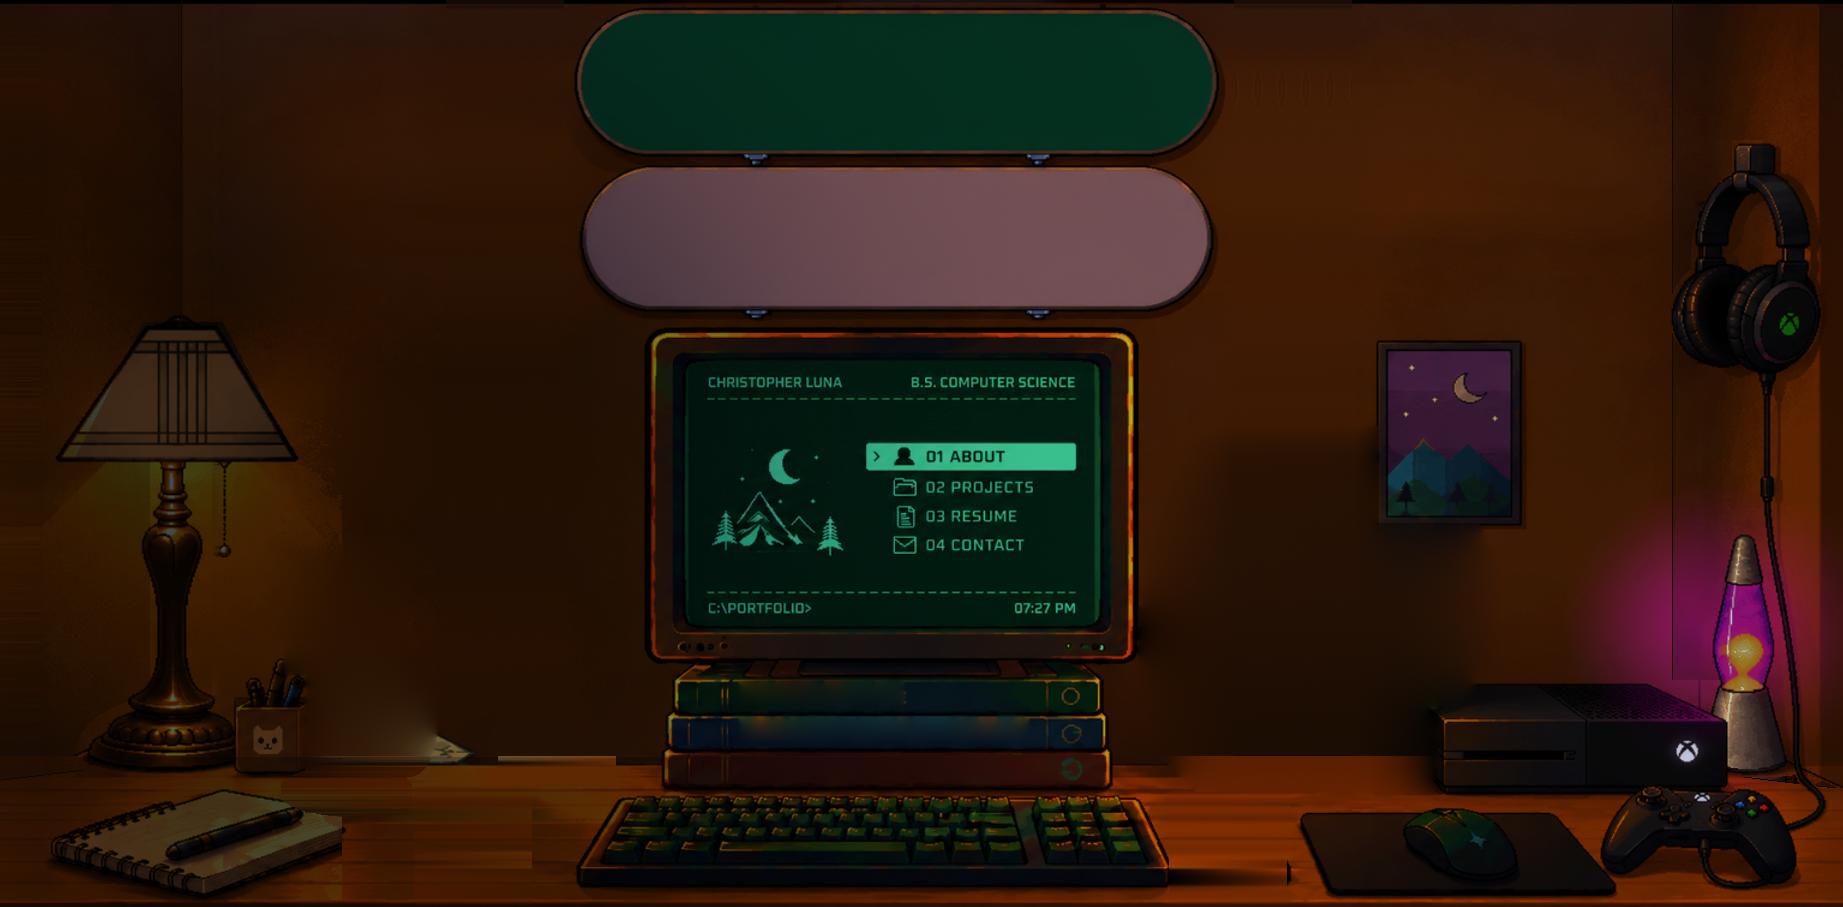
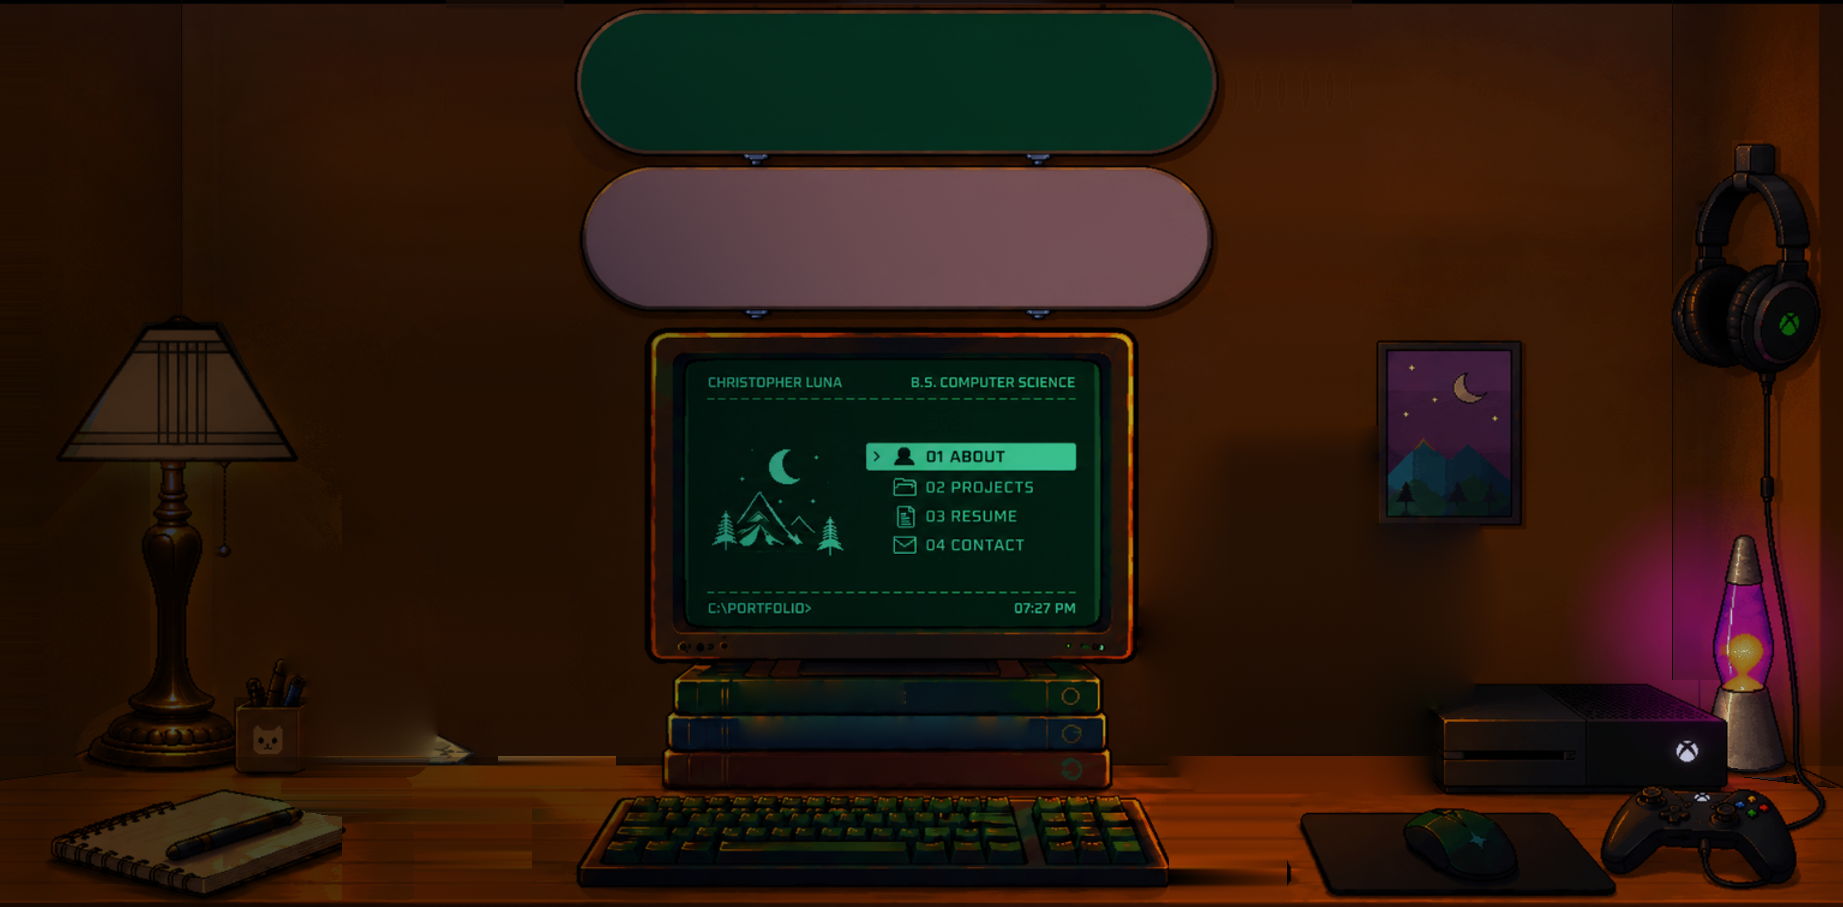
Lamp off takes its glow off the wall too
The switched-off room divided a smooth glow out of the lit one, but the mockup's painted pool under the shade isn't smooth, so it stayed on the wall. The wall's leftover light is now measured (block medians, against the plain wall left of the decks on the same rows) and brought down to it.

Changed region(s): [[0.0, 0.4939, 0.1856, 0.6792]]

diff --git a/scripts/mockup-room.js b/scripts/mockup-room.js
@@ -77,7 +77,53 @@ function lampOff(img) {
     for (let c = 0; c < 3; c++) out[o + c] = clamp(Math.round((img[o + c] * 0.8 * [0.95, 0.97, 1.08][c]) / (1 + G * tint[c])), 0, 255);
     if (inPoly(mx, my, SHADE)) { const l = 0.3 * img[o] + 0.59 * img[o + 1] + 0.11 * img[o + 2]; out[o] = l * 0.26; out[o + 1] = l * 0.17; out[o + 2] = l * 0.1; }
   }
+  unlightWall(out, SHADE);
   return out;
+}
+
+/**
+ * The glow the mockup paints on the wall round the shade isn't a smooth falloff, so dividing one out leaves
+ * its pool behind. What's left is measured instead: the wall's light in blocks (a median, so the lamp's stem
+ * and the pencil cup don't count), against the plain wall just left of the decks on the same rows, and the
+ * wall (and what stands in front of it) brought down to that, fading out before the decks and the desk.
+ */
+function unlightWall(out, SHADE) {
+  const B = 12, X1 = Math.round(380 * K), XF = Math.round(330 * K), Y1 = Math.round(DESK_Y * K);
+  const gw = Math.ceil(X1 / B), gh = Math.ceil(Y1 / B);
+  const median = (x0, y0, x1, y1) => {
+    const v = [[], [], []];
+    for (let y = y0; y < y1; y++) for (let x = x0; x < x1; x++) {
+      if (inPoly(x / K, y / K, SHADE)) continue;
+      for (let c = 0; c < 3; c++) v[c].push(out[(y * W + x) * 3 + c]);
+    }
+    return v.map((a) => (a.length ? a.sort((p, q) => p - q)[a.length >> 1] : 0));
+  };
+  // the plain wall per block row, just left of the decks
+  const ref = Array.from({ length: gh }, (_, j) => median(Math.round(362 * K), j * B, X1, Math.min(Y1, (j + 1) * B)));
+  for (let j = 1; j < gh - 1; j++) for (let c = 0; c < 3; c++) ref[j][c] = (ref[j - 1][c] + 2 * ref[j][c] + ref[j + 1][c]) / 4;
+  // each block's darkening (never brighter), smoothed so no block edge shows
+  let g = Array.from({ length: gh }, (_, j) => Array.from({ length: gw }, (_, i) => {
+    const m = median(i * B, j * B, Math.min(X1, (i + 1) * B), Math.min(Y1, (j + 1) * B));
+    return m.map((v, c) => (v ? Math.min(1, (ref[j][c] + 1) / (v + 1)) : 1));
+  }));
+  for (let pass = 0; pass < 4; pass++) {
+    g = g.map((row, j) => row.map((_, i) => [0, 1, 2].map((c) => {
+      let s = 0, n = 0;
+      for (let dj = -1; dj <= 1; dj++) for (let di = -1; di <= 1; di++) { const r = g[j + dj]?.[i + di]; if (r) { s += r[c]; n++; } }
+      return s / n;
+    })));
+  }
+  for (let y = 0; y < Y1; y++) for (let x = 0; x < X1; x++) {
+    if (inPoly(x / K, y / K, SHADE)) continue;
+    const fx = clamp(x / B - 0.5, 0, gw - 1), fy = clamp(y / B - 0.5, 0, gh - 1);
+    const i0 = Math.floor(fx), j0 = Math.floor(fy), i1 = Math.min(gw - 1, i0 + 1), j1 = Math.min(gh - 1, j0 + 1), tx = fx - i0, ty = fy - j0;
+    const fade = clamp((X1 - x) / (X1 - XF), 0, 1) * clamp((Y1 - y) / (6 * K), 0, 1);
+    const o = (y * W + x) * 3;
+    for (let c = 0; c < 3; c++) {
+      const v = (g[j0][i0][c] * (1 - tx) + g[j0][i1][c] * tx) * (1 - ty) + (g[j1][i0][c] * (1 - tx) + g[j1][i1][c] * tx) * ty;
+      out[o + c] = clamp(Math.round(out[o + c] * (1 - fade + fade * v)), 0, 255);
+    }
+  }
 }
 
 /**
